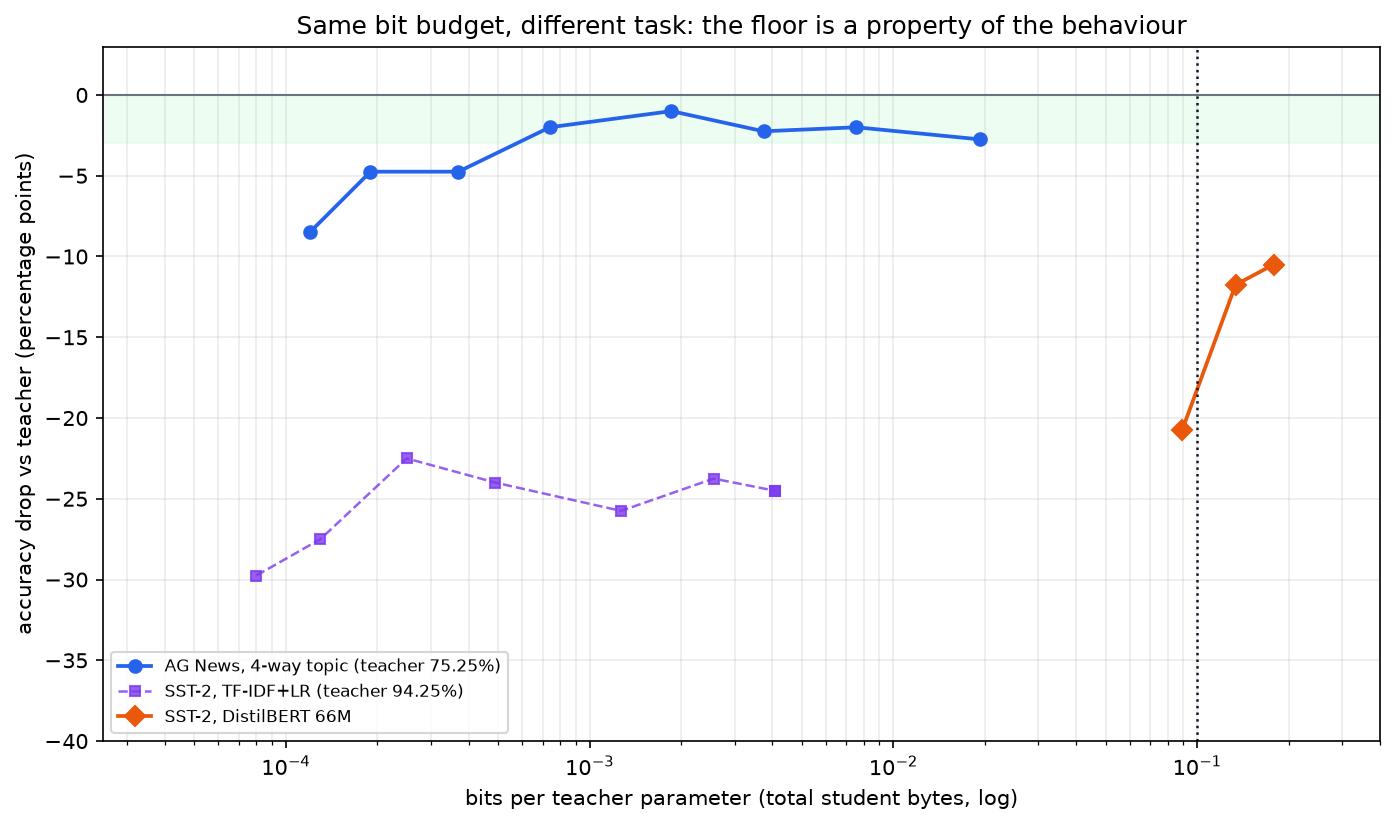
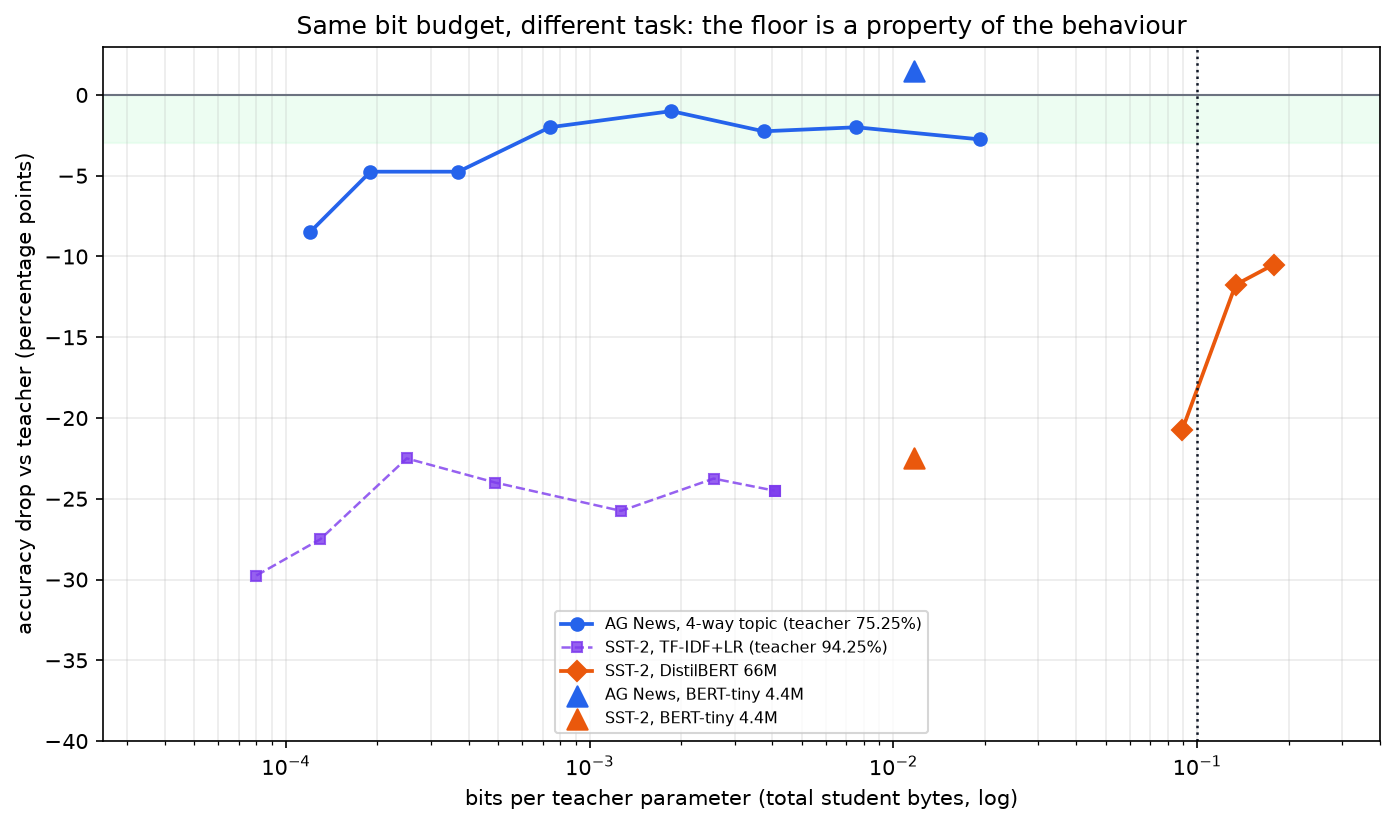
research: same BERT-tiny at 0.0117 bit/param - AG News +1.5, SST-2 -22.5
- controlled comparison: same 4.39M student, same byte budget, different task
- SST-2 BERT-tiny 4-bit 71.75% vs teacher 94.25
- spectrum figure: the two triangles sit at the same x, 24 points apart

diff --git a/research/distill_sst2_bert_tiny.py b/research/distill_sst2_bert_tiny.py
@@ -1,0 +1,96 @@
+"""SST-2: BERT-tiny (4.4M) on the same teacher labels, post-hoc 4/3/2-bit."""
+import json
+
+import torch
+from torch.utils.data import DataLoader, Dataset
+from transformers import BertConfig, BertForSequenceClassification, BertTokenizer
+
+D = json.load(open(r"research/results/sst2_labels.json", encoding="utf-8"))
+LABELS = ["negative", "positive"]
+L2I = {c: i for i, c in enumerate(LABELS)}
+tr = [r for r in D["train"] if r["label"] != "unknown"]
+te = D["test"]
+print("train", len(tr), "test", len(te))
+MODEL = "prajjwal1/bert-tiny"
+
+
+class DS(Dataset):
+    def __init__(self, rows, tok, train=True):
+        self.enc = tok([r["text"] for r in rows], truncation=True, max_length=64, padding="max_length",
+                       return_tensors="pt")
+        key = "label" if train else "true"
+        self.y = torch.tensor([L2I.get(r[key], 0) for r in rows])
+
+    def __len__(self):
+        return len(self.y)
+
+    def __getitem__(self, i):
+        return {"input_ids": self.enc["input_ids"][i], "attention_mask": self.enc["attention_mask"][i],
+                "labels": self.y[i]}
+
+
+def quantize(w, bits, group=64):
+    shape = w.shape
+    rows = w.reshape(-1, shape[-1]).float()
+    n, cols = rows.shape
+    pad = (-cols) % group
+    if pad:
+        rows = torch.cat([rows, torch.zeros(n, pad, device=rows.device)], 1)
+    g = rows.view(n, -1, group)
+    lo, hi = g.amin(2, keepdim=True), g.amax(2, keepdim=True)
+    levels = 2 ** bits - 1
+    scale = (hi - lo).clamp_min(1e-12) / levels
+    q = ((g - lo) / scale).round().clamp(0, levels) * scale + lo
+    return q.reshape(n, -1)[:, :cols].reshape(shape).to(w.dtype)
+
+
+@torch.no_grad()
+def acc(model, ds):
+    model.eval()
+    correct = 0
+    for b in DataLoader(ds, batch_size=64):
+        b = {k: v.cuda() for k, v in b.items()}
+        correct += int((model(**b).logits.argmax(1) == b["labels"]).sum())
+    return correct / len(ds)
+
+
+def main():
+    tok = BertTokenizer.from_pretrained(MODEL)
+    cfg = BertConfig.from_pretrained(MODEL)
+    cfg.num_labels = 2
+    model = BertForSequenceClassification.from_pretrained(MODEL, config=cfg).cuda()
+    tr_ds, te_ds = DS(tr, tok), DS(te, tok, train=False)
+    opt = torch.optim.AdamW(model.parameters(), lr=5e-5, weight_decay=0.01)
+    dl = DataLoader(tr_ds, batch_size=32, shuffle=True)
+    for ep in range(6):
+        model.train()
+        for b in dl:
+            b = {k: v.cuda() for k, v in b.items()}
+            loss = model(**b).loss
+            opt.zero_grad(); loss.backward(); opt.step()
+        print(f"epoch {ep+1} loss {loss.item():.4f} acc {acc(model, te_ds):.4f}", flush=True)
+    base = acc(model, te_ds)
+    total = sum(p.numel() for p in model.parameters())
+    print("base acc", round(base, 4), "params", round(total / 1e6, 2))
+    rows = []
+    for bits in [16, 4, 3, 2]:
+        if bits < 16:
+            orig = {k: p.detach().clone() for k, p in model.named_parameters() if p.dim() == 2}
+            for k, p in model.named_parameters():
+                if p.dim() == 2:
+                    p.data.copy_(quantize(orig[k], bits))
+        a = acc(model, te_ds)
+        size = (total * bits / 8) if bits < 16 else total * 2
+        row = {"bits": bits, "acc": round(a, 4), "size_mb": round(size / 1e6, 2),
+               "bits_per_teacher_param": round(size * 8 / 1.5e9, 5)}
+        rows.append(row); print(json.dumps(row))
+        if bits < 16:
+            for k, p in model.named_parameters():
+                if p.dim() == 2:
+                    p.data.copy_(orig[k])
+    json.dump({"base_acc": round(base, 4), "params": total, "rows": rows},
+              open(r"research/results/sst2_bert_tiny.json", "w"), indent=1)
+
+
+if __name__ == "__main__":
+    main()

diff --git a/research/plot_behavioral_bits.py b/research/plot_behavioral_bits.py
@@ -99,6 +99,14 @@ def plot_spectrum():
             alpha=0.8, label="SST-2, TF-IDF+LR (teacher 94.25%)")
     ax.plot([x for x, _ in bert_pts], [y for _, y in bert_pts], "D-", color="#ea580c", lw=1.8, ms=7,
             label="SST-2, DistilBERT 66M")
+    ag_bt = load("agnews_bert_tiny.json")
+    sst_bt = load("sst2_bert_tiny.json")
+    ag4 = next(r for r in ag_bt["rows"] if r["bits"] == 4)
+    sst4 = next(r for r in sst_bt["rows"] if r["bits"] == 4)
+    ax.scatter([ag4["bits_per_teacher_param"]], [ag4["acc"] * 100 - 75.25], marker="^", s=95,
+               color="#2563eb", zorder=6, label="AG News, BERT-tiny 4.4M")
+    ax.scatter([sst4["bits_per_teacher_param"]], [sst4["acc"] * 100 - 94.25], marker="^", s=95,
+               color="#ea580c", zorder=6, label="SST-2, BERT-tiny 4.4M")
     ax.axvline(0.1, color="#111827", ls=":", lw=1.2)
     ax.axhline(0, color="#6b7280", lw=1)
     ax.axhspan(-3, 0, color="#dcfce7", alpha=0.5, zorder=0)
@@ -106,7 +114,7 @@ def plot_spectrum():
     ax.set_xlabel("bits per teacher parameter (total student bytes, log)")
     ax.set_ylabel("accuracy drop vs teacher (percentage points)")
     ax.set_title("Same bit budget, different task: the floor is a property of the behaviour")
-    ax.grid(alpha=0.25, which="both"); ax.legend(fontsize=8, loc="lower left")
+    ax.grid(alpha=0.25, which="both"); ax.legend(fontsize=7.5, loc="lower center")
     fig.tight_layout(); fig.savefig(OUT / "compressibility_spectrum.png", bbox_inches="tight"); plt.close(fig)
 
 

diff --git a/docs/BEHAVIORAL_BITS.md b/docs/BEHAVIORAL_BITS.md
@@ -108,6 +108,8 @@ test rows. Teacher: 94.25%.
 | student | size | accuracy | drop vs teacher | bits / teacher-param |
 |---|---:|---:|---:|---:|
 | TF-IDF + LR, best (1k features) | 44.9 KB | 71.8% | -22.5 | 0.00025 |
+| BERT-tiny 4.4M, bf16 | 8.77 MB | 72.8% | -21.5 | 0.0468 |
+| BERT-tiny 4.4M, 4-bit | 2.19 MB | 71.8% | -22.5 | 0.0117 |
 | DistilBERT 66M, bf16 | 134 MB | 83.3% | -11.0 | 0.714 |
 | DistilBERT 66M, 4-bit | 33.5 MB | 83.8% | -10.5 | 0.179 |
 | DistilBERT 66M, 3-bit | 25.1 MB | 82.5% | -11.8 | 0.134 |
@@ -117,6 +119,10 @@ A bag-of-words student is stuck ~22 points below the teacher regardless of size:
 needs negation and composition, which TF-IDF cannot represent. A 66M transformer helps,
 but even at 0.179 bit/param it is 10.5 points short; at 0.089 bit/param it is 20.8 points
 short. **The 0.1-bit target is not enough here — the parameter count is the wall.**
+
+The controlled comparison is the point: the same 4.39M student at the same 0.0117
+bit/param matches the AG News teacher (76.75% vs 75.25%) and loses 22.5 points on SST-2
+(71.75% vs 94.25%). Same architecture, same bytes, different behaviour.
 
 ![Compressibility spectrum](figures/compressibility_spectrum.png)
 

diff --git a/research/README.md b/research/README.md
@@ -55,7 +55,9 @@ McNemar p = 0.689, 0.00186 bit/teacher-param. A 4.39M BERT-tiny at 4-bit = 2.19 
 76.75% (0.0117 bit/param); 3-bit = 1.64 MB, 77.25%; 2-bit = 1.10 MB, 65.5%.
 
 **SST-2 (2-way, 1.5B teacher 94.25%):** DistilBERT 66M at 2-bit = 73.5%,
-0.0893 bit/teacher-param (-20.8 points); at 4-bit = 83.75% (-10.5 points).
+0.0893 bit/teacher-param (-20.8 points); at 4-bit = 83.75% (-10.5 points). The same
+4.39M BERT-tiny at 4-bit = 2.19 MB, 71.75% (-22.5, 0.0117 bit/param) — the same
+architecture and byte budget that matched the AG News teacher.
 
 **Date -> ISO (1.5B teacher 100% exact):** 1.35M char-level seq2seq = 99.8% exact,
 0.0036 bit/teacher-param at 4-bit (0.0144 at bf16).

diff --git a/research/ARTICLE.md b/research/ARTICLE.md
@@ -99,6 +99,10 @@ Teacher: 94.25%.
 | DistilBERT 66M, 3-bit | 25.1 MB | 82.5% | -11.8 | 0.134 |
 | DistilBERT 66M, 2-bit | 16.7 MB | 73.5% | -20.8 | 0.089 |
 
+The controlled comparison is the point: the same 4.4M BERT-tiny at the same 0.0117
+bit/param scores 76.75% on AG News (teacher 75.25%) and 71.75% on SST-2 (teacher 94.25%).
+Same architecture, same bytes, 22.5 points apart.
+
 A bag-of-words student is stuck ~22 points below the teacher regardless of size: sentiment
 needs negation and composition, which TF-IDF cannot represent. A 66M transformer helps,
 but even at 0.179 bit/param it is 10.5 points short; at 0.089 bit/param it is 20.8 points
